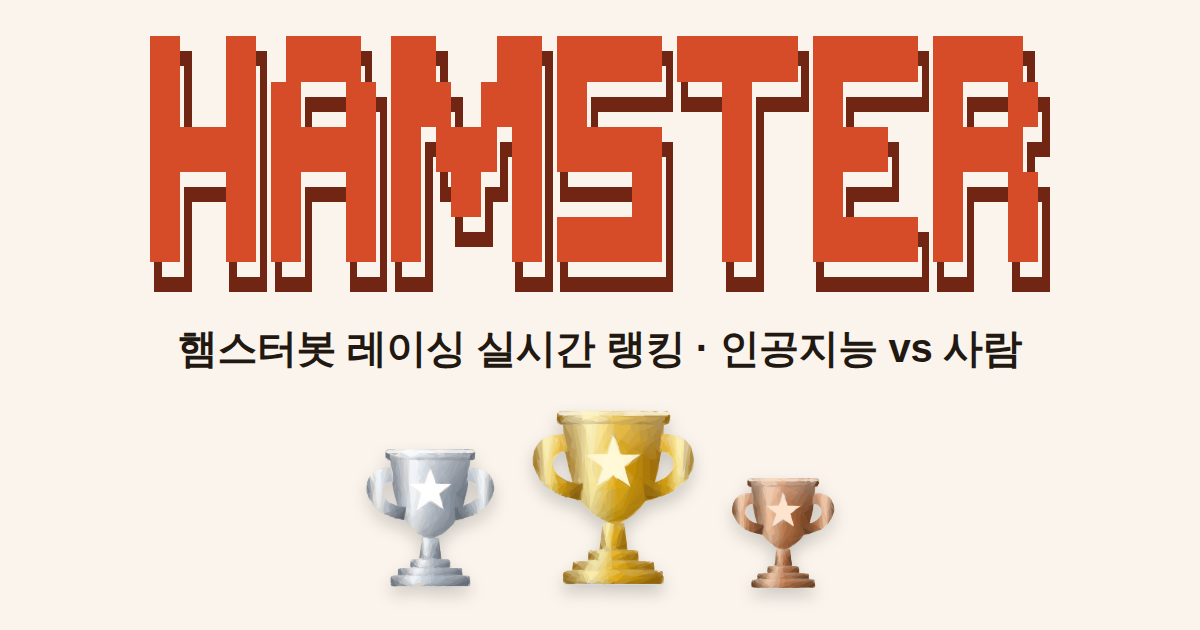
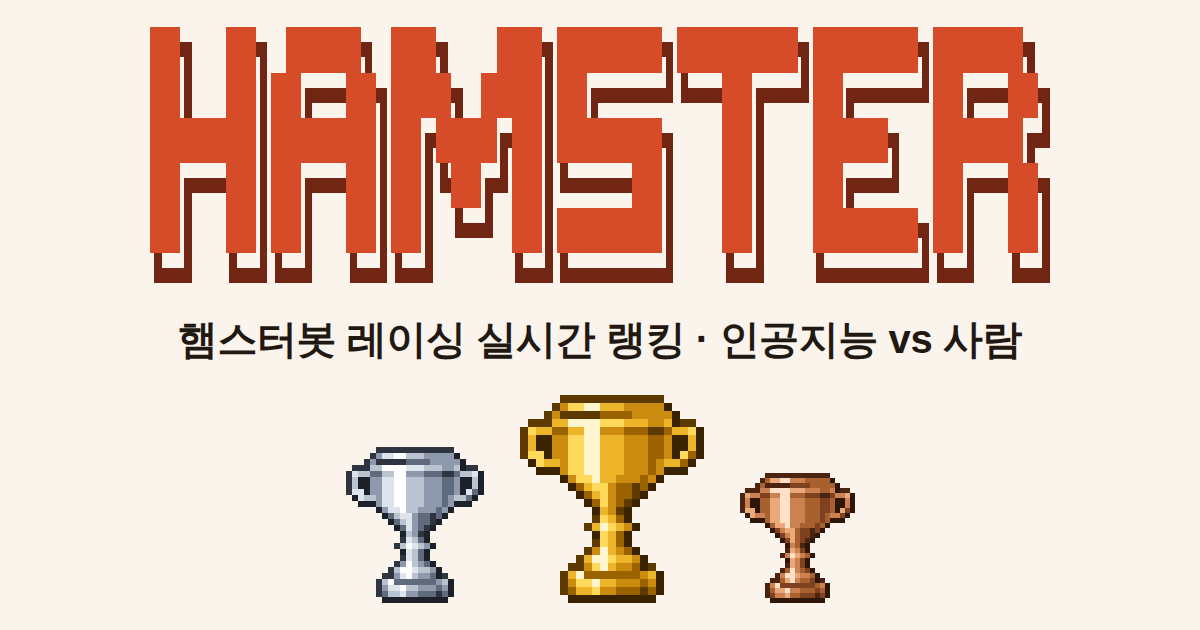
트로피 기본 스타일을 픽셀 아트로 변경(?trophy=primitive로 도형 트로피), 공유 이미지도 픽셀 트로피로
Claude-Session: https://claude.ai/code/session_019KBA7PZw7VtUP6ERWjGa4e

diff --git a/src/ranking.ts b/src/ranking.ts
@@ -25,7 +25,7 @@ const MEDALS = ["🥇", "🥈", "🥉"];
 const TROPHY_PODIUM = true;
 const TROPHY_FILES = ["gold.svg", "silver.svg", "bronze.svg"];
 // 트로피 그림 스타일: "primitive"(도형 조합) | "pixel"(Pyxelate로 만든 픽셀 아트). 주소에 ?trophy=pixel 로 바꿔 볼 수 있다.
-const DEFAULT_TROPHY_STYLE: "primitive" | "pixel" = "primitive";
+const DEFAULT_TROPHY_STYLE: "primitive" | "pixel" = "pixel";
 const TROPHY_STYLE: "primitive" | "pixel" = (() => {
   const q = new URLSearchParams(location.search).get("trophy");
   return q === "pixel" || q === "primitive" ? q : DEFAULT_TROPHY_STYLE;

diff --git a/assets/ranking.js b/assets/ranking.js
@@ -24,7 +24,7 @@ const MEDALS = ["🥇", "🥈", "🥉"];
 const TROPHY_PODIUM = true;
 const TROPHY_FILES = ["gold.svg", "silver.svg", "bronze.svg"];
 // 트로피 그림 스타일: "primitive"(도형 조합) | "pixel"(Pyxelate로 만든 픽셀 아트). 주소에 ?trophy=pixel 로 바꿔 볼 수 있다.
-const DEFAULT_TROPHY_STYLE = "primitive";
+const DEFAULT_TROPHY_STYLE = "pixel";
 const TROPHY_STYLE = (() => {
     const q = new URLSearchParams(location.search).get("trophy");
     return q === "pixel" || q === "primitive" ? q : DEFAULT_TROPHY_STYLE;

diff --git a/index.html b/index.html
@@ -76,6 +76,6 @@
     </footer>
   </main>
 
-  <script type="module" src="./assets/ranking.js?v=4453f220d4"></script>
+  <script type="module" src="./assets/ranking.js?v=b1bd97e93c"></script>
 </body>
 </html>

diff --git a/README.md b/README.md
@@ -80,7 +80,7 @@ node scripts/rasterize_trophy.cjs          # → assets/trophy/*-frag.png (playw
 ```
 그 뒤 `src/ranking.ts`의 `TROPHY_FRAG_VERSION`을 올려 캐시를 무효화한다.
 
-**픽셀 아트 버전**: 주소에 `?trophy=pixel`을 붙이면 트로피가 픽셀 아트로 바뀐다(`?trophy=primitive`는 원래 도형 트로피).
+**픽셀 아트 버전(기본)**: 트로피는 기본으로 픽셀 아트로 보인다. 주소에 `?trophy=primitive`를 붙이면 도형 트로피로, `?trophy=pixel`은 픽셀로 강제한다.
 기본값은 `src/ranking.ts`의 `DEFAULT_TROPHY_STYLE`로 정한다. 픽셀 트로피(`assets/trophy/pixel/`, 21×24칸 + 외곽선)는
 `scripts/pixel_trophy.py`에 부위별 실루엣(테두리·입구·컵·손잡이·기둥·매듭·2단 받침대)을 칸 단위로 그려 두고,
 빛이 왼쪽 위에서 온다고 보고 금속 6단계 색으로 명암을 칠해 만든다: 원통 음영(왼쪽 반사띠 → 오른쪽 그림자, 오른쪽 끝 반사광),
